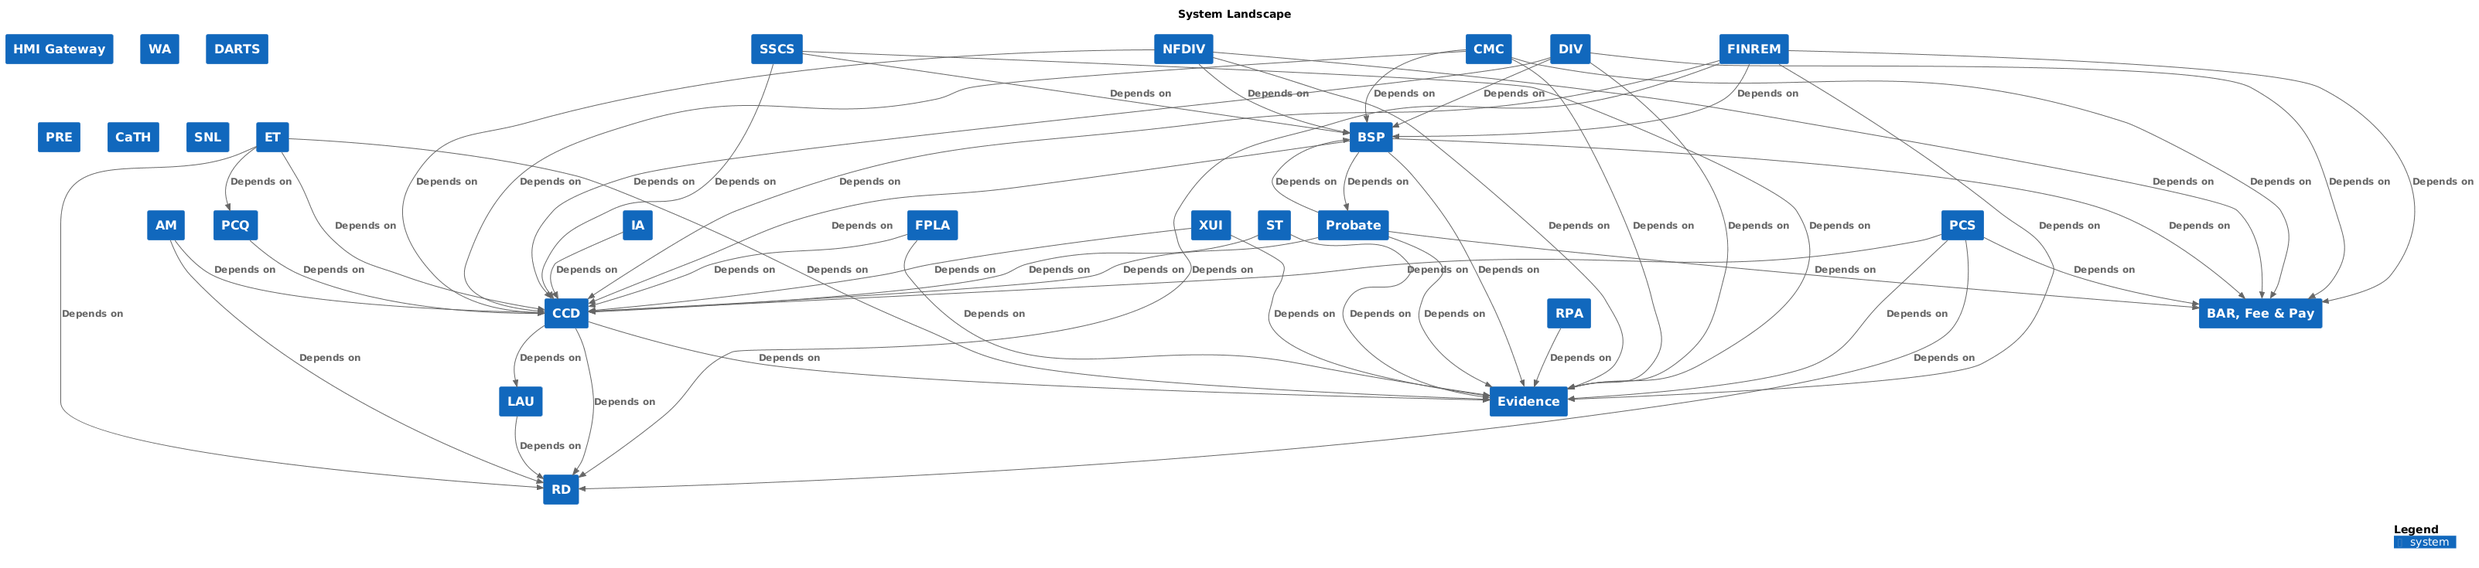
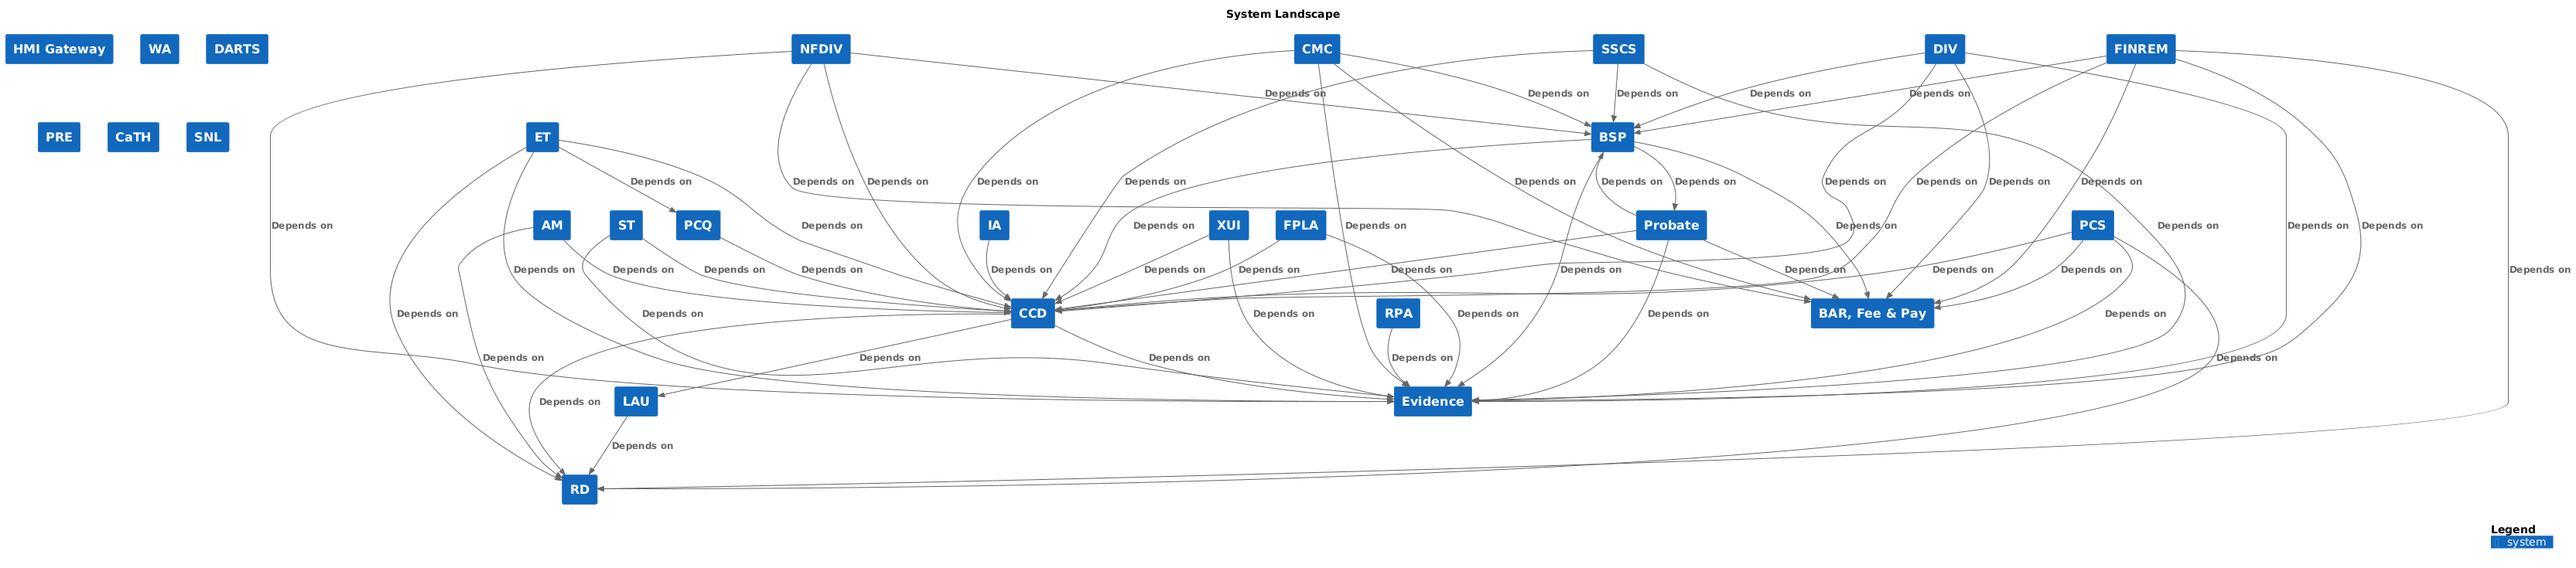
Regenerate LLD pages from microservices.json
The docs/lld/*.html pages are build artifacts produced by
docs/generate-llds.js, but nothing in CI runs it — only the C4 image
render (docs/c4/generate.js) is automated via update-images.yml. The
pages had therefore drifted from microservices.json as services were
added over time.

Regenerating picks up CaTH API and CaTH Web on cath.html (added to the
catalogue in #403 but never rendered), plus accumulated drift elsewhere:

- New pages for AM, ET and PRE. These groups had no LLD page at all,
  so the network-graph legend linked them to a 404.
- bsp.html gains Reform Scan Notification Service and the Swagger link
  for Bulk scan payment processor.
- evidence.html drops the Swagger link for DG Document Assembly API:
  its declared spec is rpa-dg-docassembly-api.json, but the published
  file is dg-docassembly-api.json, so the link 404s.
- lau.html and st.html were hand-edited and are reformatted to match
  generator output; st.html also picks up its overview diagram.

Add Structurizr models for AM, ET, PRE and ST so those pages have a
diagram to reference, and render them with the same
extenda/structurizr-to-png image CI uses. structurizr-landscape.png
is an autoLayout re-render with no content change.

Because generate-llds.js emits a Swagger link only when the spec file
is present on disk, this is rebased onto the commit that publishes
docs/specs/cath-service.json so cath-api renders its API docs link —
the first service in the CaTH group to do so.

diff --git a/docs/lld/st.html b/docs/lld/st.html
@@ -1,30 +1,36 @@
+
 <!DOCTYPE html>
 <html lang="en">
-<head>
-  <meta charset="utf-8">
-  <title>ST Low Level Design (LLD)</title>
-  <link href="https://cdn.jsdelivr.net/npm/bootstrap@5.2.0/dist/css/bootstrap.min.css" rel="stylesheet" integrity="sha384-gH2yIJqKdNHPEq0n4Mqa/HGKIhSkIHeL5AyhkYV8i59U5AR6csBvApHHNl/vI1Bx" crossorigin="anonymous">
-  <script src="https://cdn.jsdelivr.net/npm/bootstrap@5.2.0/dist/js/bootstrap.bundle.min.js" integrity="sha384-A3rJD856KowSb7dwlZdYEkO39Gagi7vIsF0jrRAoQmDKKtQBHUuLZ9AsSv4jD4Xa" crossorigin="anonymous"></script>
-  <link rel="stylesheet" href="./style.css">
-</head>
-<body>
-<div class="container px-4 pt-5 my-5">
-  <h1 class="display-4 fw-bold">ST Overview</h1>
-  <div class="col-lg-6 mx-auto">
-    <p class="lead my-4">Overview of the ST components.</p>
-  </div>
-</div>
-<div class="container px-4 my-5">
-  <h2 class="display-6 fw-bold">Services:</h2>
-  <ul><li><a href="https://github.com/hmcts/sptribs-frontend">Special Tribunals Frontend</a></li><li><a href="https://github.com/hmcts/sptribs-case-api">Special Tribunal Case API</a> - <a href="https://hmcts.github.io/cnp-api-docs/swagger.html?url=https://hmcts.github.io/cnp-api-docs/specs/sptribs-case-api.json">Swagger</a></li></ul>
-</div>
-<div class="container">
-  <footer class="d-flex flex-wrap justify-content-between align-items-center py-3 my-4 border-top">
-    <ul class="nav">
-      <li class="nav-item"><a href="https://hmcts.github.io/cnp-api-docs/" class="nav-link px-2 text-muted">Home</a></li>
-      <li class="nav-item"><a href="https://github.com/hmcts/cnp-api-docs/" class="nav-link px-2 text-muted">About</a></li>
-    </ul>
-  </footer>
-</div>
-</body>
+  <head>
+    <meta charset="utf-8">
+    <title>ST Low Level Design (LLD)</title>
+    <link href="https://cdn.jsdelivr.net/npm/bootstrap@5.2.0/dist/css/bootstrap.min.css" rel="stylesheet" integrity="sha384-gH2yIJqKdNHPEq0n4Mqa/HGKIhSkIHeL5AyhkYV8i59U5AR6csBvApHHNl/vI1Bx" crossorigin="anonymous">
+    <script src="https://cdn.jsdelivr.net/npm/bootstrap@5.2.0/dist/js/bootstrap.bundle.min.js" integrity="sha384-A3rJD856KowSb7dwlZdYEkO39Gagi7vIsF0jrRAoQmDKKtQBHUuLZ9AsSv4jD4Xa" crossorigin="anonymous"></script>
+    <link rel="stylesheet" href="./style.css">
+  </head>
+  <body>
+    <div class="container px-4 pt-5 my-5">
+      <h1 class="display-4 fw-bold">ST Overview</h1>
+      <div class="col-lg-6 mx-auto">
+        <p class="lead my-4">Overview of the ST components and how they interact with other CFT components.</p>
+      </div>
+      <div class="overflow-hidden">
+        <div class="container px-5">
+          <img src="../c4/st/images/structurizr-st-overview.png" class="img-fluid border rounded-3 shadow-lg mb-4" alt="" loading="lazy">
+        </div>
+      </div>
+    </div>
+    <div class="container px-4 my-5">
+      <h2 class="display-6 fw-bold">Services:</h2>
+      <ul><li><a href="https://github.com/hmcts/sptribs-frontend">Special Tribunals Frontend</a></li><li><a href="https://github.com/hmcts/sptribs-case-api">Special Tribunal Case API</a> - <a href="https://hmcts.github.io/cnp-api-docs/swagger.html?url=https://hmcts.github.io/cnp-api-docs/specs/sptribs-case-api.json">Swagger</a></li></ul>
+    </div>
+    <div class="container">
+      <footer class="d-flex flex-wrap justify-content-between align-items-center py-3 my-4 border-top">
+        <ul class="nav">
+          <li class="nav-item"><a href="https://hmcts.github.io/cnp-api-docs/" class="nav-link px-2 text-muted">Home</a></li>
+          <li class="nav-item"><a href="https://github.com/hmcts/cnp-api-docs/" class="nav-link px-2 text-muted">About</a></li>
+        </ul>
+      </footer>
+    </div>
+  </body>
 </html>

diff --git a/docs/lld/am.html b/docs/lld/am.html
@@ -3,26 +3,26 @@
 <html lang="en">
   <head>
     <meta charset="utf-8">
-    <title>LAU Low Level Design (LLD)</title>
+    <title>AM Low Level Design (LLD)</title>
     <link href="https://cdn.jsdelivr.net/npm/bootstrap@5.2.0/dist/css/bootstrap.min.css" rel="stylesheet" integrity="sha384-gH2yIJqKdNHPEq0n4Mqa/HGKIhSkIHeL5AyhkYV8i59U5AR6csBvApHHNl/vI1Bx" crossorigin="anonymous">
     <script src="https://cdn.jsdelivr.net/npm/bootstrap@5.2.0/dist/js/bootstrap.bundle.min.js" integrity="sha384-A3rJD856KowSb7dwlZdYEkO39Gagi7vIsF0jrRAoQmDKKtQBHUuLZ9AsSv4jD4Xa" crossorigin="anonymous"></script>
     <link rel="stylesheet" href="./style.css">
   </head>
   <body>
     <div class="container px-4 pt-5 my-5">
-      <h1 class="display-4 fw-bold">LAU Overview</h1>
+      <h1 class="display-4 fw-bold">AM Overview</h1>
       <div class="col-lg-6 mx-auto">
-        <p class="lead my-4">Overview of the LAU components and how they interact with other CFT components.</p>
+        <p class="lead my-4">View our <a href="https://tools.hmcts.net/confluence/display/AM/Access+Management+Dashboard">Access Management Dashboard</a> page for more details about the AM services</p>
       </div>
       <div class="overflow-hidden">
         <div class="container px-5">
-          <img src="../c4/lau/images/structurizr-lau-overview.png" class="img-fluid border rounded-3 shadow-lg mb-4" alt="" loading="lazy">
+          <img src="../c4/am/images/structurizr-am-overview.png" class="img-fluid border rounded-3 shadow-lg mb-4" alt="" loading="lazy">
         </div>
       </div>
     </div>
     <div class="container px-4 my-5">
       <h2 class="display-6 fw-bold">Services:</h2>
-      <ul><li><a href="https://github.com/hmcts/lau-case-backend">LAU Case Backend</a> - <a href="https://hmcts.github.io/cnp-api-docs/swagger.html?url=https://hmcts.github.io/cnp-api-docs/specs/lau-case-backend.json">Swagger</a></li><li><a href="https://github.com/hmcts/lau-idam-backend">LAU IdAM Backend</a> - <a href="https://hmcts.github.io/cnp-api-docs/swagger.html?url=https://hmcts.github.io/cnp-api-docs/specs/lau-idam-backend.json">Swagger</a></li><li><a href="https://github.com/hmcts/lau-eud-backend">LAU EUD Backend</a> - <a href="https://hmcts.github.io/cnp-api-docs/swagger.html?url=https://hmcts.github.io/cnp-api-docs/specs/lau-eud-backend.json">Swagger</a></li><li><a href="https://github.com/hmcts/lau-frontend">LAU Frontend</a></li></ul>
+      <ul><li><a href="https://github.com/hmcts/am-judicial-booking-service">AM Judicial Booking Service</a> - <a href="https://hmcts.github.io/cnp-api-docs/swagger.html?url=https://hmcts.github.io/cnp-api-docs/specs/am-judicial-booking-service.json">Swagger</a></li><li><a href="https://github.com/hmcts/am-org-role-mapping-service">AM Organisational Role Mapping Service</a> - <a href="https://hmcts.github.io/cnp-api-docs/swagger.html?url=https://hmcts.github.io/cnp-api-docs/specs/am-org-role-mapping-service.json">Swagger</a></li><li><a href="https://github.com/hmcts/am-role-assignment-service">AM Role Assignment Service</a> - <a href="https://hmcts.github.io/cnp-api-docs/swagger.html?url=https://hmcts.github.io/cnp-api-docs/specs/am-role-assignment-service.json">Swagger</a></li></ul>
     </div>
     <div class="container">
       <footer class="d-flex flex-wrap justify-content-between align-items-center py-3 my-4 border-top">

diff --git a/docs/lld/evidence.html b/docs/lld/evidence.html
@@ -22,7 +22,7 @@
     </div>
     <div class="container px-4 my-5">
       <h2 class="display-6 fw-bold">Services:</h2>
-      <ul><li><a href="https://github.com/hmcts/document-management-node-demo">DM Show</a></li><li><a href="https://github.com/hmcts/document-management-store-app">DM Store</a> - <a href="https://hmcts.github.io/cnp-api-docs/swagger.html?url=https://hmcts.github.io/cnp-api-docs/specs/document-management-store-app.json">Swagger</a></li><li><a href="https://github.com/hmcts/rpa-em-annotation-api">EM Annotation API</a> - <a href="https://hmcts.github.io/cnp-api-docs/swagger.html?url=https://hmcts.github.io/cnp-api-docs/specs/em-annotation-api.json">Swagger</a></li><li><a href="https://github.com/hmcts/rpa-em-stitching-api">Stitching API</a> - <a href="https://hmcts.github.io/cnp-api-docs/swagger.html?url=https://hmcts.github.io/cnp-api-docs/specs/rpa-em-stitching-api.json">Swagger</a></li><li><a href="https://github.com/hmcts/rpa-em-ccd-orchestrator">CCD Bundle Orchestrator</a> - <a href="https://hmcts.github.io/cnp-api-docs/swagger.html?url=https://hmcts.github.io/cnp-api-docs/specs/rpa-em-ccd-orchestrator.json">Swagger</a></li><li><a href="https://github.com/hmcts/rpa-dg-docassembly-api">DG Document Assembly API</a> - <a href="https://hmcts.github.io/cnp-api-docs/swagger.html?url=https://hmcts.github.io/cnp-api-docs/specs/rpa-dg-docassembly-api.json">Swagger</a></li><li><a href="">Docmosis Tornado API</a> - <a href="https://hmcts.github.io/cnp-api-docs/swagger.html?url=">Swagger</a></li></ul>
+      <ul><li><a href="https://github.com/hmcts/document-management-node-demo">DM Show</a></li><li><a href="https://github.com/hmcts/document-management-store-app">DM Store</a> - <a href="https://hmcts.github.io/cnp-api-docs/swagger.html?url=https://hmcts.github.io/cnp-api-docs/specs/document-management-store-app.json">Swagger</a></li><li><a href="https://github.com/hmcts/rpa-em-annotation-api">EM Annotation API</a> - <a href="https://hmcts.github.io/cnp-api-docs/swagger.html?url=https://hmcts.github.io/cnp-api-docs/specs/em-annotation-api.json">Swagger</a></li><li><a href="https://github.com/hmcts/rpa-em-stitching-api">Stitching API</a> - <a href="https://hmcts.github.io/cnp-api-docs/swagger.html?url=https://hmcts.github.io/cnp-api-docs/specs/rpa-em-stitching-api.json">Swagger</a></li><li><a href="https://github.com/hmcts/rpa-em-ccd-orchestrator">CCD Bundle Orchestrator</a> - <a href="https://hmcts.github.io/cnp-api-docs/swagger.html?url=https://hmcts.github.io/cnp-api-docs/specs/rpa-em-ccd-orchestrator.json">Swagger</a></li><li><a href="https://github.com/hmcts/rpa-dg-docassembly-api">DG Document Assembly API</a></li><li><a href="">Docmosis Tornado API</a> - <a href="https://hmcts.github.io/cnp-api-docs/swagger.html?url=">Swagger</a></li></ul>
     </div>
     <div class="container">
       <footer class="d-flex flex-wrap justify-content-between align-items-center py-3 my-4 border-top">

diff --git a/docs/lld/bsp.html b/docs/lld/bsp.html
@@ -22,7 +22,7 @@
     </div>
     <div class="container px-4 my-5">
       <h2 class="display-6 fw-bold">Services:</h2>
-      <ul><li><a href="https://github.com/hmcts/blob-router-service">Bulk scan router</a> - <a href="https://hmcts.github.io/cnp-api-docs/swagger.html?url=https://hmcts.github.io/cnp-api-docs/specs/blob-router-service.json">Swagger</a></li><li><a href="https://github.com/hmcts/bulk-scan-processor">Bulk scan processor</a> - <a href="https://hmcts.github.io/cnp-api-docs/swagger.html?url=https://hmcts.github.io/cnp-api-docs/specs/bulk-scan-processor.json">Swagger</a></li><li><a href="https://github.com/hmcts/bulk-scan-orchestrator">Bulk scan orchestrator</a> - <a href="https://hmcts.github.io/cnp-api-docs/swagger.html?url=https://hmcts.github.io/cnp-api-docs/specs/bulk-scan-orchestrator.json">Swagger</a></li><li><a href="https://github.com/hmcts/bulk-scan-payment-processor">Bulk scan payment processor</a></li><li><a href="https://github.com/hmcts/send-letter-service">Bulk Printing (Send Letter)</a> - <a href="https://hmcts.github.io/cnp-api-docs/swagger.html?url=https://hmcts.github.io/cnp-api-docs/specs/send-letter-service.json">Swagger</a></li></ul>
+      <ul><li><a href="https://github.com/hmcts/blob-router-service">Bulk scan router</a> - <a href="https://hmcts.github.io/cnp-api-docs/swagger.html?url=https://hmcts.github.io/cnp-api-docs/specs/blob-router-service.json">Swagger</a></li><li><a href="https://github.com/hmcts/bulk-scan-processor">Bulk scan processor</a> - <a href="https://hmcts.github.io/cnp-api-docs/swagger.html?url=https://hmcts.github.io/cnp-api-docs/specs/bulk-scan-processor.json">Swagger</a></li><li><a href="https://github.com/hmcts/bulk-scan-orchestrator">Bulk scan orchestrator</a> - <a href="https://hmcts.github.io/cnp-api-docs/swagger.html?url=https://hmcts.github.io/cnp-api-docs/specs/bulk-scan-orchestrator.json">Swagger</a></li><li><a href="https://github.com/hmcts/bulk-scan-payment-processor">Bulk scan payment processor</a> - <a href="https://hmcts.github.io/cnp-api-docs/swagger.html?url=https://hmcts.github.io/cnp-api-docs/specs/bulk-scan-payment-processor.json">Swagger</a></li><li><a href="https://github.com/hmcts/reform-scan-notification-service">Reform Scan Notification Service</a> - <a href="https://hmcts.github.io/cnp-api-docs/swagger.html?url=https://hmcts.github.io/cnp-api-docs/specs/reform-scan-notification-service.json">Swagger</a></li><li><a href="https://github.com/hmcts/send-letter-service">Bulk Printing (Send Letter)</a> - <a href="https://hmcts.github.io/cnp-api-docs/swagger.html?url=https://hmcts.github.io/cnp-api-docs/specs/send-letter-service.json">Swagger</a></li></ul>
     </div>
     <div class="container">
       <footer class="d-flex flex-wrap justify-content-between align-items-center py-3 my-4 border-top">

diff --git a/docs/lld/et.html b/docs/lld/et.html
@@ -3,26 +3,26 @@
 <html lang="en">
   <head>
     <meta charset="utf-8">
-    <title>LAU Low Level Design (LLD)</title>
+    <title>ET Low Level Design (LLD)</title>
     <link href="https://cdn.jsdelivr.net/npm/bootstrap@5.2.0/dist/css/bootstrap.min.css" rel="stylesheet" integrity="sha384-gH2yIJqKdNHPEq0n4Mqa/HGKIhSkIHeL5AyhkYV8i59U5AR6csBvApHHNl/vI1Bx" crossorigin="anonymous">
     <script src="https://cdn.jsdelivr.net/npm/bootstrap@5.2.0/dist/js/bootstrap.bundle.min.js" integrity="sha384-A3rJD856KowSb7dwlZdYEkO39Gagi7vIsF0jrRAoQmDKKtQBHUuLZ9AsSv4jD4Xa" crossorigin="anonymous"></script>
     <link rel="stylesheet" href="./style.css">
   </head>
   <body>
     <div class="container px-4 pt-5 my-5">
-      <h1 class="display-4 fw-bold">LAU Overview</h1>
+      <h1 class="display-4 fw-bold">ET Overview</h1>
       <div class="col-lg-6 mx-auto">
-        <p class="lead my-4">Overview of the LAU components and how they interact with other CFT components.</p>
+        <p class="lead my-4">Overview of the ET components and how they interact with other CFT components.</p>
       </div>
       <div class="overflow-hidden">
         <div class="container px-5">
-          <img src="../c4/lau/images/structurizr-lau-overview.png" class="img-fluid border rounded-3 shadow-lg mb-4" alt="" loading="lazy">
+          <img src="../c4/et/images/structurizr-et-overview.png" class="img-fluid border rounded-3 shadow-lg mb-4" alt="" loading="lazy">
         </div>
       </div>
     </div>
     <div class="container px-4 my-5">
       <h2 class="display-6 fw-bold">Services:</h2>
-      <ul><li><a href="https://github.com/hmcts/lau-case-backend">LAU Case Backend</a> - <a href="https://hmcts.github.io/cnp-api-docs/swagger.html?url=https://hmcts.github.io/cnp-api-docs/specs/lau-case-backend.json">Swagger</a></li><li><a href="https://github.com/hmcts/lau-idam-backend">LAU IdAM Backend</a> - <a href="https://hmcts.github.io/cnp-api-docs/swagger.html?url=https://hmcts.github.io/cnp-api-docs/specs/lau-idam-backend.json">Swagger</a></li><li><a href="https://github.com/hmcts/lau-eud-backend">LAU EUD Backend</a> - <a href="https://hmcts.github.io/cnp-api-docs/swagger.html?url=https://hmcts.github.io/cnp-api-docs/specs/lau-eud-backend.json">Swagger</a></li><li><a href="https://github.com/hmcts/lau-frontend">LAU Frontend</a></li></ul>
+      <ul><li><a href="https://github.com/hmcts/et-ccd-callbacks">ET CCD Callbacks</a></li><li><a href="https://github.com/hmcts/et-sya-frontend">ET1 Claimant Frontend</a></li><li><a href="https://github.com/hmcts/et-syr-frontend">ET3 Respondent Frontend</a></li></ul>
     </div>
     <div class="container">
       <footer class="d-flex flex-wrap justify-content-between align-items-center py-3 my-4 border-top">

diff --git a/docs/lld/pre.html b/docs/lld/pre.html
@@ -3,26 +3,26 @@
 <html lang="en">
   <head>
     <meta charset="utf-8">
-    <title>LAU Low Level Design (LLD)</title>
+    <title>PRE Low Level Design (LLD)</title>
     <link href="https://cdn.jsdelivr.net/npm/bootstrap@5.2.0/dist/css/bootstrap.min.css" rel="stylesheet" integrity="sha384-gH2yIJqKdNHPEq0n4Mqa/HGKIhSkIHeL5AyhkYV8i59U5AR6csBvApHHNl/vI1Bx" crossorigin="anonymous">
     <script src="https://cdn.jsdelivr.net/npm/bootstrap@5.2.0/dist/js/bootstrap.bundle.min.js" integrity="sha384-A3rJD856KowSb7dwlZdYEkO39Gagi7vIsF0jrRAoQmDKKtQBHUuLZ9AsSv4jD4Xa" crossorigin="anonymous"></script>
     <link rel="stylesheet" href="./style.css">
   </head>
   <body>
     <div class="container px-4 pt-5 my-5">
-      <h1 class="display-4 fw-bold">LAU Overview</h1>
+      <h1 class="display-4 fw-bold">PRE Overview</h1>
       <div class="col-lg-6 mx-auto">
-        <p class="lead my-4">Overview of the LAU components and how they interact with other CFT components.</p>
+        <p class="lead my-4">Overview of the PRE components and how they interact with other CFT components.</p>
       </div>
       <div class="overflow-hidden">
         <div class="container px-5">
-          <img src="../c4/lau/images/structurizr-lau-overview.png" class="img-fluid border rounded-3 shadow-lg mb-4" alt="" loading="lazy">
+          <img src="../c4/pre/images/structurizr-pre-overview.png" class="img-fluid border rounded-3 shadow-lg mb-4" alt="" loading="lazy">
         </div>
       </div>
     </div>
     <div class="container px-4 my-5">
       <h2 class="display-6 fw-bold">Services:</h2>
-      <ul><li><a href="https://github.com/hmcts/lau-case-backend">LAU Case Backend</a> - <a href="https://hmcts.github.io/cnp-api-docs/swagger.html?url=https://hmcts.github.io/cnp-api-docs/specs/lau-case-backend.json">Swagger</a></li><li><a href="https://github.com/hmcts/lau-idam-backend">LAU IdAM Backend</a> - <a href="https://hmcts.github.io/cnp-api-docs/swagger.html?url=https://hmcts.github.io/cnp-api-docs/specs/lau-idam-backend.json">Swagger</a></li><li><a href="https://github.com/hmcts/lau-eud-backend">LAU EUD Backend</a> - <a href="https://hmcts.github.io/cnp-api-docs/swagger.html?url=https://hmcts.github.io/cnp-api-docs/specs/lau-eud-backend.json">Swagger</a></li><li><a href="https://github.com/hmcts/lau-frontend">LAU Frontend</a></li></ul>
+      <ul><li><a href="https://github.com/hmcts/pre-api">PRE API</a></li><li><a href="https://github.com/hmcts/pre-portal">PRE Portal</a></li></ul>
     </div>
     <div class="container">
       <footer class="d-flex flex-wrap justify-content-between align-items-center py-3 my-4 border-top">

diff --git a/docs/lld/cath.html b/docs/lld/cath.html
@@ -22,7 +22,7 @@
     </div>
     <div class="container px-4 my-5">
       <h2 class="display-6 fw-bold">Services:</h2>
-      <ul><li><a href="https://github.com/hmcts/pip-data-management">CaTH Data Management API</a></li><li><a href="https://github.com/hmcts/pip-account-management">CaTH Account Management API</a></li><li><a href="https://github.com/hmcts/pip-publication-services">CaTH Publication Services API</a></li><li><a href="https://github.com/hmcts/pip-frontend">CaTH Frontend Service</a></li></ul>
+      <ul><li><a href="https://github.com/hmcts/pip-data-management">CaTH Data Management API</a></li><li><a href="https://github.com/hmcts/pip-account-management">CaTH Account Management API</a></li><li><a href="https://github.com/hmcts/pip-publication-services">CaTH Publication Services API</a></li><li><a href="https://github.com/hmcts/pip-frontend">CaTH Frontend Service</a></li><li><a href="https://github.com/hmcts/cath-service">CaTH API</a> - <a href="https://hmcts.github.io/cnp-api-docs/swagger.html?url=https://hmcts.github.io/cnp-api-docs/specs/cath-service.json">Swagger</a></li><li><a href="https://github.com/hmcts/cath-service">CaTH Web</a></li></ul>
     </div>
     <div class="container">
       <footer class="d-flex flex-wrap justify-content-between align-items-center py-3 my-4 border-top">
